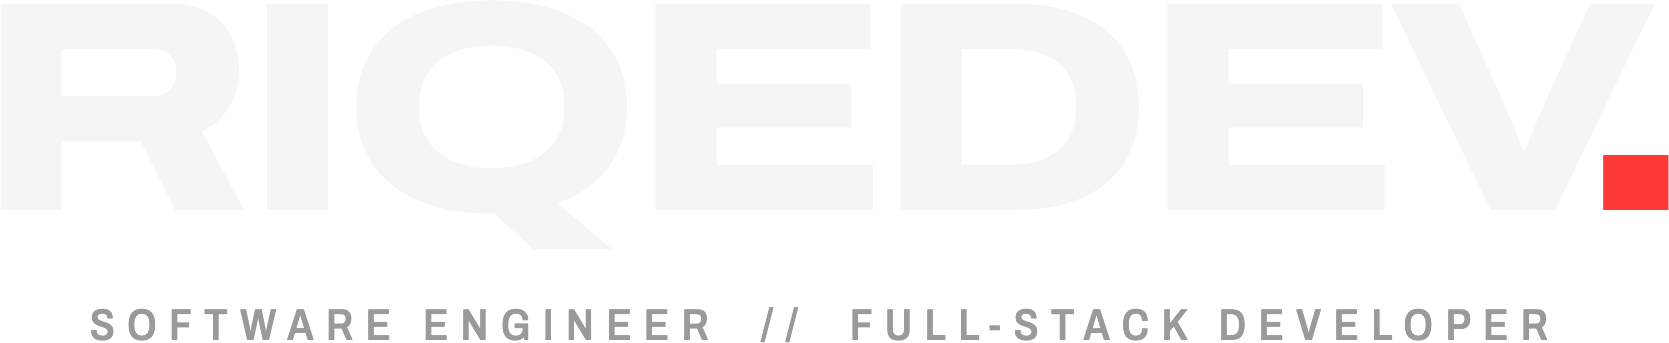
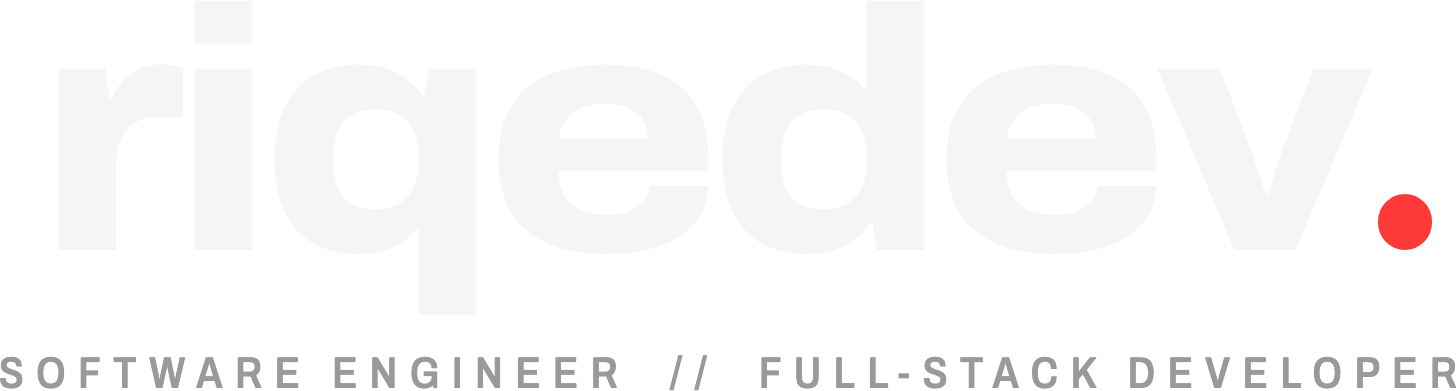
Apply lowercase riqedev wordmark with round REC dot
Matches the portfolio brand: Archivo wdth 112 / wght 780, drawn round dot.

Changed region(s): [[0.0, 0.9038, 1.0, 1.0], [0.9272, 0.4373, 1.0, 0.6414]]

diff --git a/README.md b/README.md
@@ -19,7 +19,7 @@
     <picture>
       <source media="(prefers-color-scheme: dark)" srcset="./assets/wordmark-dark.png" />
       <source media="(prefers-color-scheme: light)" srcset="./assets/wordmark-light.png" />
-      <img src="./assets/wordmark-dark.png" width="640" align="top" alt="RIQEDEV. Software Engineer // Full-Stack Developer" />
+      <img src="./assets/wordmark-dark.png" width="560" align="top" alt="riqedev. Software Engineer // Full-Stack Developer" />
     </picture>
   </a>
 </p>
